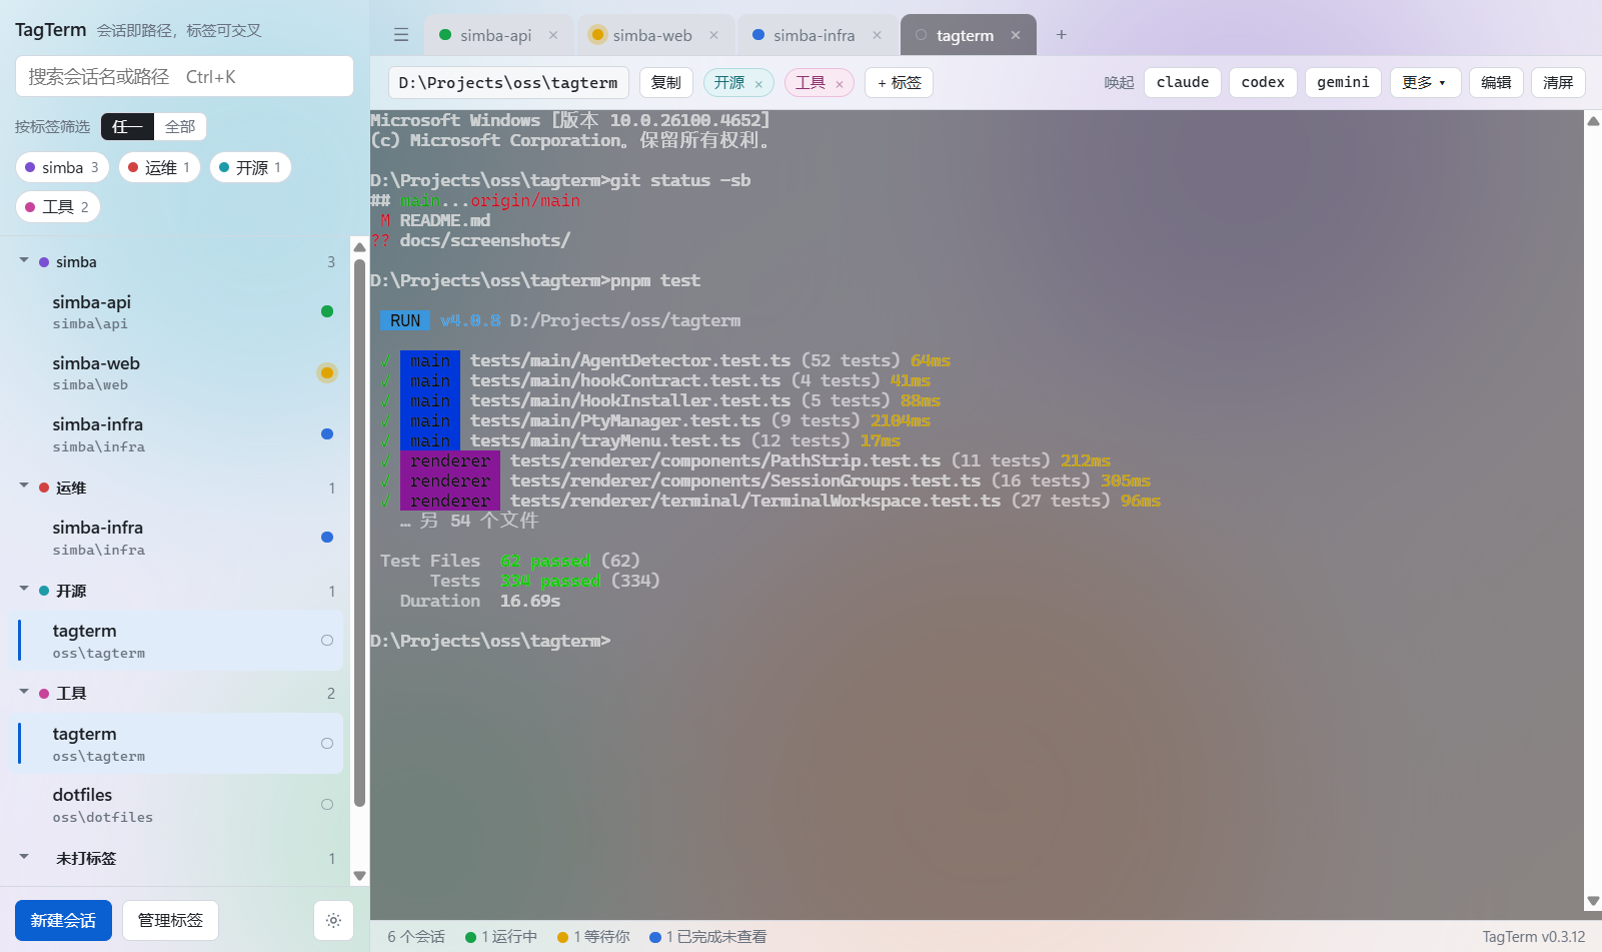
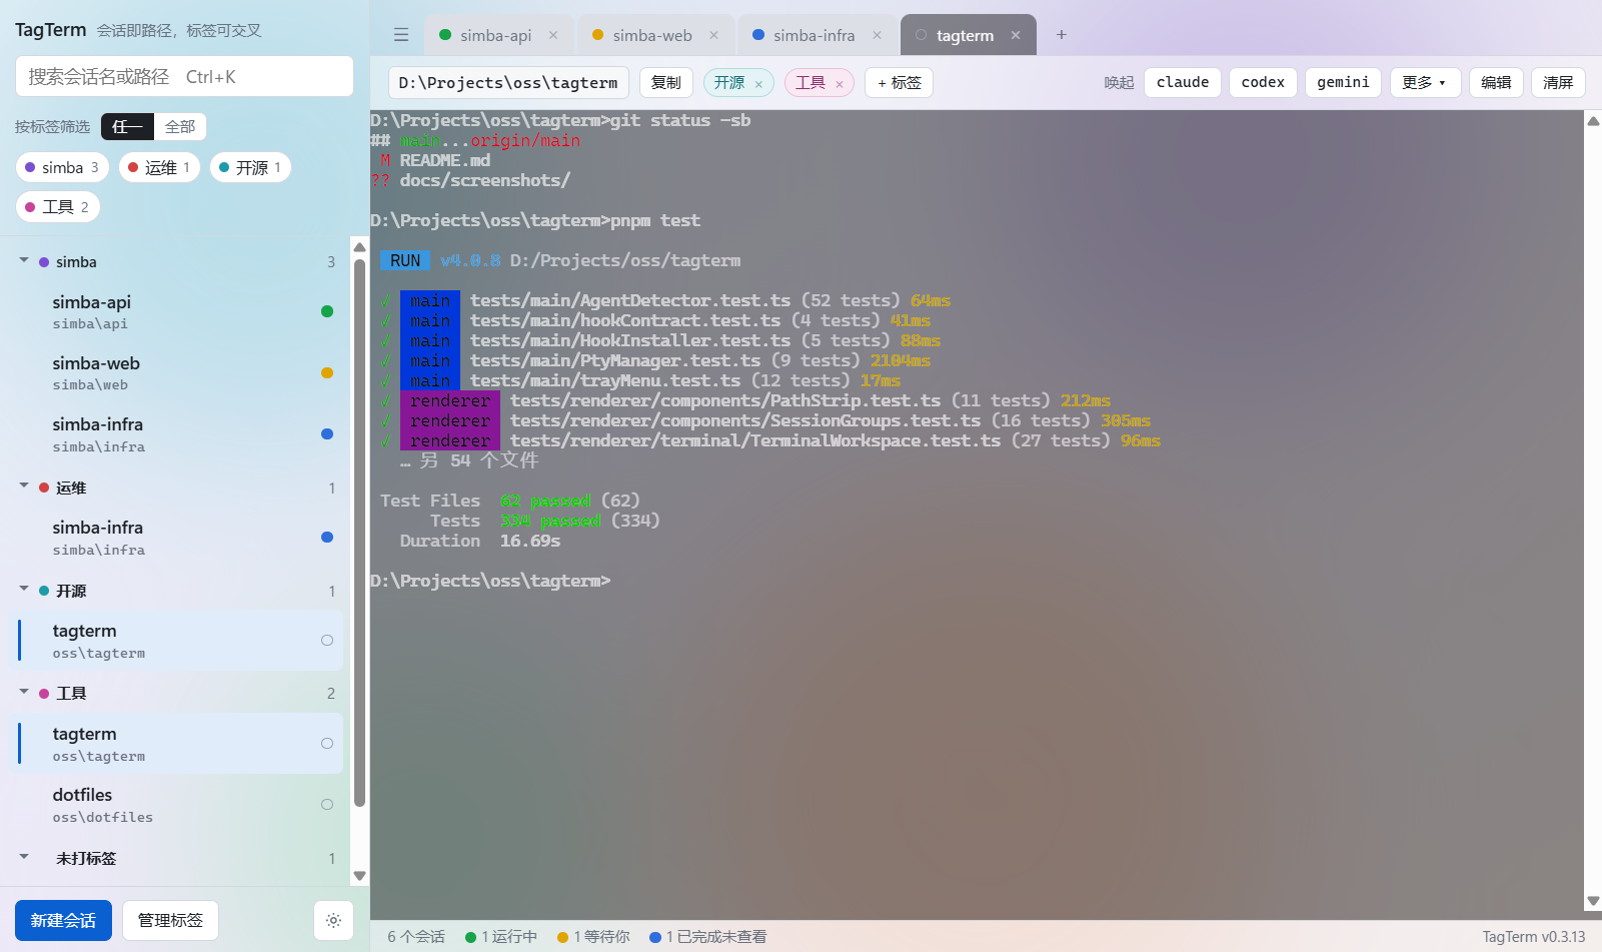
版本升至 0.3.13：唤起后焦点回终端、关掉的标签页裁回滚省内存，截图随版本重生成（closed-tab-scrollback 行为 6）
- package.json 与 README 中英两份的功能标题改为 v0.3.13

- docs/screenshots 四张用 pnpm screenshots 演示数据重生成（状态栏 v0.3.13）

Changed region(s): [[0.2185, 0.1218, 0.7179, 0.6397], [0.2497, 0.6702, 0.3745, 0.7006], [0.1873, 0.3655, 0.2185, 0.396]]

diff --git a/README.en.md b/README.en.md
@@ -12,7 +12,7 @@ A small Windows desktop tool: **save the project folders you use most as termina
 
 When you use AI coding tools in several projects at once, every time you have to find the project folder, type `cmd` in the address bar, then type `claude`; once a pile of terminal windows is open, you can no longer tell which tool has stopped and is waiting for your approval. TagTerm folds both into one window: a session is a path, and the status is visible at a glance.
 
-## Features (v0.3.12)
+## Features (v0.3.13)
 
 ### Sessions and terminals
 

diff --git a/README.md b/README.md
@@ -12,7 +12,7 @@
 
 同时在好几个项目里用 AI 编程工具时，每次都要找到项目文件夹、在地址栏敲 `cmd`、再敲 `claude`；开了一堆终端窗口后，又分不清哪个窗口里的工具停下来在等你批准。TagTerm 把这两件事收进一个窗口：会话即路径，状态一眼可见。
 
-## 功能（v0.3.12）
+## 功能（v0.3.13）
 
 ### 会话与终端
 
